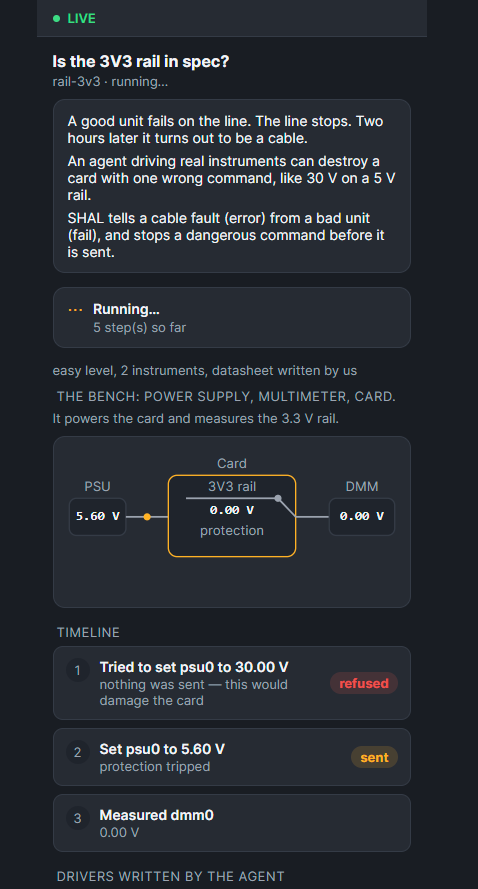
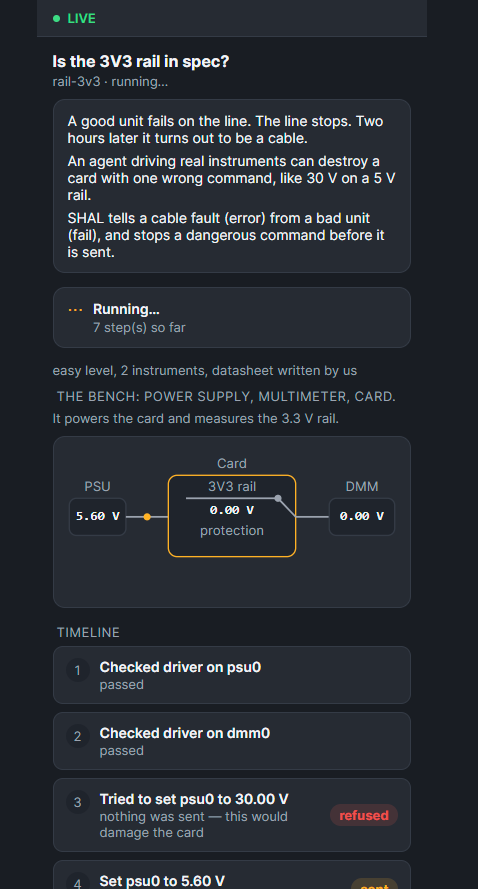
arena ui: destroyed never says Correct, drive is a step, sentence edge cases (#427 follow-up)
- A destroyed card is checked before record["correct"] -- it can
  never say "Correct", and the sentence names the card as destroyed.
- A clean, in-range drive now writes a "write" entry to the sim log
  (CardSim.apply_input); the Watch timeline shows it as its own step
  ("Powered the card at 12.00 V").
- Temperatures show 1 decimal (90.0 \u00b0C); voltages stay 2 (3.30 V).
- The noise sentence names the range actually seen across reads
  ("reads 3.25-3.38 V across reads") when an address has more than
  one distinct reading, instead of picking one arbitrarily.
- "No answer" is reserved for a real transport failure (a `measure`
  with no `query` at all, e.g. the `open` fault). A `measure`
  followed by a `query` but no `reading` line (an old capture's
  shape, or a reply the driver could not parse) says "the agent's
  driver failed to read" instead.
- Screenshots retaken from real played runs (check-driver on every
  instrument, a real drive/call/measure sequence), not a fake
  2-step run, at a real 1440px and 390px, full page.

Claude-Session: https://claude.ai/code/session_017m3bQhKaHmqh7pWvUpGx73

diff --git a/arena/src/shal_arena/ui/data.py b/arena/src/shal_arena/ui/data.py
@@ -57,30 +57,61 @@ def _answer_label(fault_id: str) -> str:
     return "ok" if fault_id == "ok" else fault_id.replace("_", " ")
 
 
+# issue #427 CTO review round 3: the noise fault gives a DIFFERENT reading
+# on every read -- a single "reads X" is misleading when the log has more
+# than one distinct value for this address; name the range actually seen
+# instead of picking one arbitrarily.
+def _varies(values: list[float], decimals: int) -> bool:
+    return len({round(v, decimals) for v in values}) > 1
+
+
+def _rail_clause(rail: dict[str, Any], values: list[float]) -> str:
+    label, lo, hi = f"the {rail['name']} rail", rail["lo"], rail["hi"]
+    if _varies(values, 2):
+        return f"{label} reads {min(values):.2f}-{max(values):.2f} V across reads"
+    v = values[-1]
+    if lo <= v <= hi:
+        return f"{label} reads {v:.2f} V, inside its {lo:.2f}-{hi:.2f} V window"
+    side = "below" if v < lo else "above"
+    limit = lo if v < lo else hi
+    return f"{label} reads {v:.2f} V, {side} its {limit:.2f} V limit"
+
+
+def _temp_clause(temp: dict[str, Any], values: list[float]) -> str:
+    label, high = temp["name"], temp["high_c"]
+    if _varies(values, 1):
+        return f"{label} reads {min(values):.1f}-{max(values):.1f} °C across reads"
+    v = values[-1]
+    if v <= high:
+        return f"{label} {v:.1f} °C, within its {high:.1f} °C limit"
+    return f"{label} {v:.1f} °C, {v - high:.1f} °C above its {high:.1f} °C limit"
+
+
 def _measured_clause(name: str, rail: dict[str, Any] | None, temp: dict[str, Any] | None,
-                     reading: float | None, attempted: bool) -> str | None:
+                     readings: list[float], has_query: bool, has_measure: bool) -> str | None:
     """`None` means "say nothing about this instrument" -- no attempt was
     ever logged for it (an old capture made before this ticket, or an
-    instrument the agent never touched), as opposed to a real failed read
-    (issue #427 CTO review round 2: "No answer" only when a read really
-    failed, never just because the log has no `reading` line)."""
-    if reading is None:
-        return f"No answer from the {name}" if attempted else None
-    v = reading
-    if rail is not None:
-        lo, hi = rail["lo"], rail["hi"]
-        if lo <= v <= hi:
-            return f"the {rail['name']} rail reads {v:.2f} V, inside its {lo:.2f}-{hi:.2f} V window"
-        side = "below" if v < lo else "above"
-        limit = lo if v < lo else hi
-        return f"the {rail['name']} rail reads {v:.2f} V, {side} its {limit:.2f} V limit"
-    if temp is not None:
-        high = temp["high_c"]
-        if v <= high:
-            return f"{temp['name']} {v:.2f} °C, within its {high:.2f} °C limit"
-        return (f"{temp['name']} {v:.2f} °C, {v - high:.2f} °C above its "
-                f"{high:.2f} °C limit")
-    return f"the {name} reads {v:.2f}"
+    instrument the agent never touched).
+
+    issue #427 CTO review round 3: three states, not two. A `reading` line
+    -- the number. No `reading` but a `query` DID happen -- the exchange
+    with the bus worked (this is "a read that worked", never "No answer");
+    we just have no number for it (an old capture made before the
+    `reading` kind existed, or a reply the driver could not parse) -- "the
+    agent's driver failed to read". No `query` at all, only the neutral
+    `measure` marker -- the read never reached the bus (a real transport
+    failure, e.g. the `open` fault) -- this is the one real "No answer"."""
+    if readings:
+        if rail is not None:
+            return _rail_clause(rail, readings)
+        if temp is not None:
+            return _temp_clause(temp, readings)
+        return f"the {name} reads {readings[-1]:.2f}"
+    if has_query:
+        return f"the agent's driver failed to read the {name}"
+    if has_measure:
+        return f"No answer from the {name}"
+    return None
 
 
 def _answer_sentence(payload: dict[str, Any], rails: list[dict[str, Any]],
@@ -107,16 +138,19 @@ def _answer_sentence(payload: dict[str, Any], rails: list[dict[str, Any]],
         temp = temps_by_tp.get(test_point)
         if rail is None and temp is None:
             continue
-        reading, attempted = None, False
-        for e in reversed(timeline):
+        readings, has_query, has_measure = [], False, False
+        for e in timeline:
             if e.get("address") != instrument["address"]:
                 continue
-            if e.get("kind") == "reading" and reading is None:
-                reading = e["detail"]["value"]
-            if e.get("kind") in ("measure", "query"):
-                attempted = True
+            if e.get("kind") == "reading":
+                readings.append(e["detail"]["value"])
+            elif e.get("kind") == "query":
+                has_query = True
+            elif e.get("kind") == "measure":
+                has_measure = True
         clause = _measured_clause(
-            _name_for_address(instrument["address"]), rail, temp, reading, attempted)
+            _name_for_address(instrument["address"]), rail, temp, readings, has_query,
+            has_measure)
         if clause is not None:
             clauses.append(clause)
 
@@ -131,10 +165,14 @@ def _answer_sentence(payload: dict[str, Any], rails: list[dict[str, Any]],
         measured = None
 
     given_label = _answer_label(record["given"])
-    if record["correct"]:
+    # issue #427 CTO review round 3 (blocker): a destroyed card must never
+    # say "Correct" -- checked before `record["correct"]`, which only ever
+    # compares the agent's answer to the hidden fault and knows nothing
+    # about the card's physical state.
+    if payload["card"]["destroyed"]:
+        verdict = "Wrong: the card is destroyed."
+    elif record["correct"]:
         verdict = "Correct."
-    elif payload["card"]["destroyed"]:
-        verdict = "Wrong: the card was destroyed before it could answer."
     elif record["fault_id"] == "ok":
         verdict = "Wrong: the card was fine."
     elif record["given"] == "ok":

diff --git a/arena/tests/test_ui_followup.py b/arena/tests/test_ui_followup.py
@@ -189,6 +189,29 @@ def test_answer_sentence_covers_the_noise_fault(tmp_path: Path) -> None:
     assert "The agent's answer: noise." in sentence
 
 
+def test_answer_sentence_names_the_range_across_repeated_noisy_reads(tmp_path: Path) -> None:
+    """CTO review round 3: the noise fault can give a different reading on
+    every read -- the sentence must name the range actually seen, not pick
+    one arbitrary value. This sim's own ripple is deterministic per run
+    (same seed, same shift every call), so the varying-value case is built
+    directly from the sim log, the same shape a real noisy instrument
+    would leave."""
+    run_id = start_run(str(SAMPLE_TASK), seed=2, state_dir=tmp_path)["run_id"]
+    drive_input(run_id, "psu0", 5.0, state_dir=tmp_path)
+    take_measurement(run_id, "dmm0", PASSING_DMM_DRIVER, state_dir=tmp_path)
+
+    log_path = tmp_path / f"{run_id}.simlog.jsonl"
+    with log_path.open("a", encoding="utf-8") as f:
+        for i, value in enumerate((3.25, 3.38, 3.31)):
+            f.write(json.dumps({"ts": f"2026-10-06T13:25:2{i}Z", "address": "dmm0",
+                                "kind": "reading", "value": value, "unit": "volt"}) + "\n")
+    answer(run_id, "noise", state_dir=tmp_path)
+
+    payload = run_payload(run_id, state_dir=tmp_path)
+    sentence = payload["answer_sentence"]
+    assert "reads 3.25-3.38 V across reads" in sentence
+
+
 def test_answer_sentence_on_a_destroyed_card_after_a_real_reading(tmp_path: Path) -> None:
     """CTO review round 2: "destroyed" must not say "before any reading"
     when a reading was in fact taken first."""
@@ -307,6 +330,85 @@ def test_answer_sentence_covers_the_open_fault_with_no_reading(tmp_path: Path) -
     sentence = payload["answer_sentence"]
     assert "No answer from the DMM" in sentence
     assert sentence.endswith("Correct.")
+
+
+def test_a_destroyed_card_never_says_correct_even_if_the_answer_would_match(
+        tmp_path: Path) -> None:
+    """CTO review round 3 (blocker): seed 2 realizes 'ok' -- measuring
+    first would make 'ok' the technically correct answer, but the card is
+    destroyed right after, and the sentence must say so, never 'Correct'."""
+    run_id = start_run(str(SAMPLE_TASK), seed=2, state_dir=tmp_path)["run_id"]
+    drive_input(run_id, "psu0", 5.0, state_dir=tmp_path)
+    take_measurement(run_id, "dmm0", PASSING_DMM_DRIVER, state_dir=tmp_path)
+    from shal_arena.runner import raw_scpi
+    raw_scpi(run_id, "psu0", "VOLT 30.0", state_dir=tmp_path)
+    answer(run_id, "ok", state_dir=tmp_path)
+
+    payload = run_payload(run_id, state_dir=tmp_path)
+    assert payload["card"]["destroyed"] is True
+    sentence = payload["answer_sentence"]
+    assert "Correct" not in sentence
+    assert sentence.endswith("Wrong: the card is destroyed.")
+
+
+def test_a_successful_drive_is_its_own_timeline_step(tmp_path: Path) -> None:
+    """CTO review round 3: a clean, in-range drive used to write nothing
+    to the sim log at all -- the Watch timeline had no step explaining why
+    the PSU box's value changed. Now it logs a `write` entry."""
+    run_id = start_run(str(SAMPLE_TASK), seed=2, state_dir=tmp_path)["run_id"]
+    drive_input(run_id, "psu0", 5.0, state_dir=tmp_path)
+
+    payload = run_payload(run_id, state_dir=tmp_path)
+    writes = [e for e in payload["timeline"]
+             if e["kind"] == "write" and e["address"] == "psu0"]
+    assert len(writes) == 1
+    assert writes[0]["detail"]["volts"] == 5.0
+
+
+def test_a_query_without_a_reading_says_the_driver_failed_not_no_answer(
+        tmp_path: Path) -> None:
+    """CTO review round 3: an old capture (the adk-lab shape, from before
+    the `reading` sim-log kind existed) has `measure` + `query` entries
+    but no `reading` line -- the exchange worked, so this is never "No
+    answer"."""
+    run_id = start_run(str(SAMPLE_TASK), seed=2, state_dir=tmp_path)["run_id"]
+    drive_input(run_id, "psu0", 5.0, state_dir=tmp_path)
+
+    log_path = tmp_path / f"{run_id}.simlog.jsonl"
+    with log_path.open("a", encoding="utf-8") as f:
+        f.write(json.dumps({"ts": "2026-10-06T13:25:20Z", "address": "dmm0",
+                            "kind": "measure"}) + "\n")
+        f.write(json.dumps({"ts": "2026-10-06T13:25:21Z", "address": "dmm0",
+                            "kind": "query", "cmd": "MEAS:VOLT:DC?"}) + "\n")
+    answer(run_id, "ok", state_dir=tmp_path)
+
+    payload = run_payload(run_id, state_dir=tmp_path)
+    sentence = payload["answer_sentence"]
+    assert "No answer" not in sentence
+    assert "the agent's driver failed to read the DMM" in sentence
+
+
+def test_a_measure_with_no_query_at_all_is_a_real_no_answer(tmp_path: Path) -> None:
+    """The `open` fault: the read never reaches the bus at all -- only the
+    neutral `measure` marker is logged. This is the one real failure."""
+    from shal_arena import fault as fault_mod
+    from shal_arena.errors import MeasurementFailed
+    from shal_arena.loader import load_task
+
+    card = load_task(str(SAMPLE_TASK)).card
+    seed = next(s for s in range(200)
+               if fault_mod.realized_fault(card, s).fault_id == "open")
+    run_id = start_run(str(SAMPLE_TASK), seed=seed, state_dir=tmp_path)["run_id"]
+    drive_input(run_id, "psu0", 5.0, state_dir=tmp_path)
+    with pytest.raises(MeasurementFailed):
+        take_measurement(run_id, "dmm0", PASSING_DMM_DRIVER, state_dir=tmp_path)
+    answer(run_id, "open", state_dir=tmp_path)
+
+    payload = run_payload(run_id, state_dir=tmp_path)
+    entries = [e for e in payload["timeline"] if e["address"] == "dmm0"]
+    assert not any(e["kind"] == "query" for e in entries)
+    sentence = payload["answer_sentence"]
+    assert "No answer from the DMM" in sentence
 
 
 def test_answer_sentence_on_a_destroyed_card(tmp_path: Path) -> None:

diff --git a/arena/src/shal_arena/ui/page.py b/arena/src/shal_arena/ui/page.py
@@ -191,14 +191,16 @@ const KIND_LABEL = {
   refused: "Tried to set", protection: "Set", damage: "Set", reading: "Measured",
 };
 
-// issue #427 CTO review round 2: 2 decimal places, with the unit symbol,
-// everywhere a number is shown -- bench boxes, timeline rows and the
-// closing sentence alike (fixes "90.00114442664224°C" running off its
-// box, and "3.3 volt" touching the box edge).
+// issue #427 CTO review: a number is shown with a unit symbol everywhere
+// it appears -- bench boxes, timeline rows and the closing sentence alike
+// (fixes "90.00114442664224°C" running off its box, and "3.3 volt"
+// touching the box edge). Round 3: temperatures are 1 decimal ("90.0 °C"),
+// voltages stay 2 ("3.30 V") -- a temperature reading is never as precise
+// as a calibrated voltage reference.
 function fmtNum(value, unit) {
   const n = Number(value);
   if (!Number.isFinite(n)) return String(value);
-  if (unit === "celsius") return `${n.toFixed(2)} °C`;
+  if (unit === "celsius") return `${n.toFixed(1)} °C`;
   return `${n.toFixed(2)} V`;
 }
 
@@ -207,7 +209,14 @@ function stepTitle(e) {
   if (e.kind === "check") return `Checked driver on ${addr}`;
   if (e.kind === "reading" || e.kind === "measure") return `Measured ${addr}`;
   if (e.kind === "query") return `Read ${addr}`;
-  if (e.kind === "write") return `Wrote ${addr}`;
+  if (e.kind === "write") {
+    // issue #427 CTO review round 3: a clean, in-range drive is now its
+    // own step ("Powered the card at 12.00 V") -- it used to write
+    // nothing to the sim log at all, so the PSU box's value changed with
+    // no step explaining it.
+    const v = e.detail && e.detail.volts;
+    return v === undefined ? `Wrote ${addr}` : `Powered the card at ${fmtNum(v)}`;
+  }
   if (e.kind === "call") {
     const op = e.detail && e.detail.op, args = (e.detail && e.detail.args) || [];
     if (op === "set_relay") return `Switched ${addr} ${args[1] === "true" ? "on" : "off"}`;

diff --git a/arena/src/shal_arena/card_sim/model.py b/arena/src/shal_arena/card_sim/model.py
@@ -206,6 +206,12 @@ class CardSim:
         elif breaches:
             self._log(address, "protection", input=name, volts=volts,
                       limit_v=breaches[0].above_v, source=breaches[0].source)
+        else:
+            # issue #427 CTO review round 3: a clean, in-range drive wrote
+            # nothing at all to the sim log before this -- the Watch
+            # timeline had no step for it (the PSU box's own value changed
+            # with no explanation). Same shape as every other entry here.
+            self._log(address, "write", input=name, volts=volts)
         return Result(True, self.state, detail={"input": name, "volts": volts})
 
     def _log(self, address: str, kind: str, **extra: Any) -> None:
